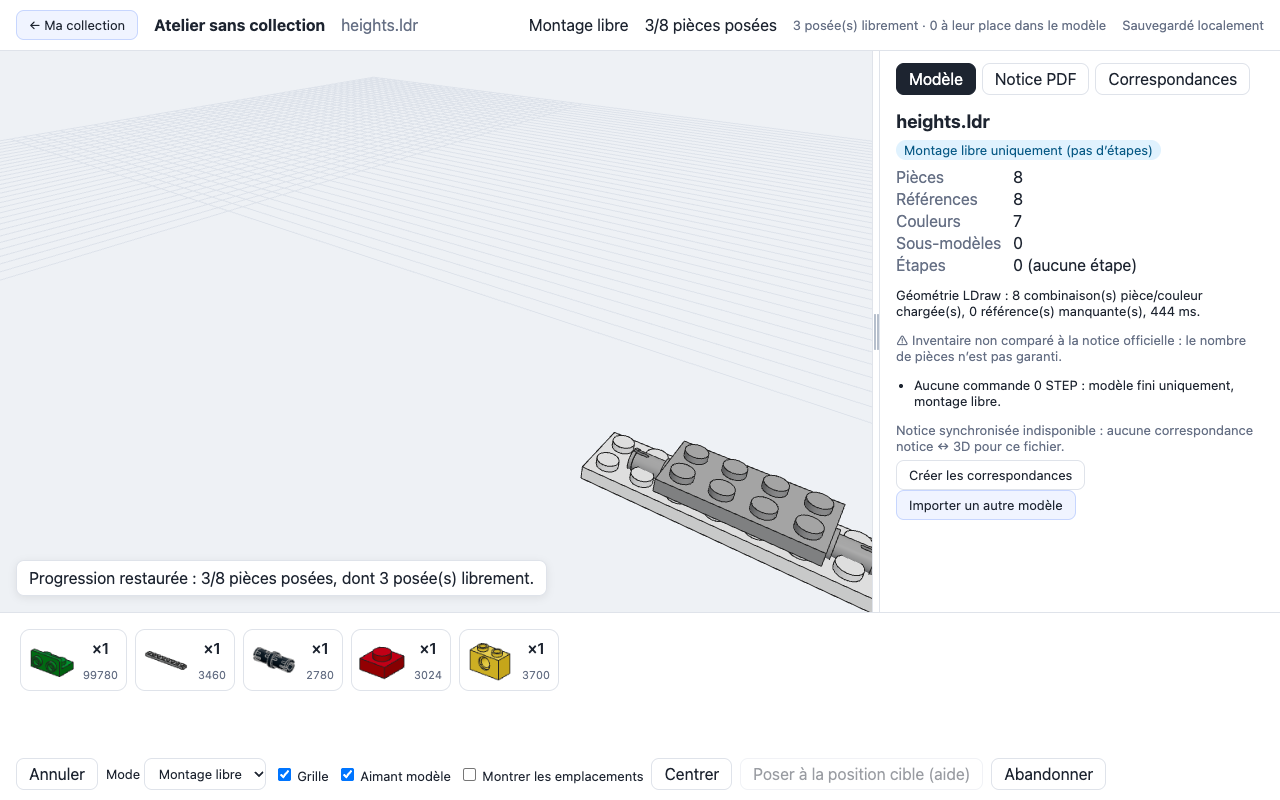
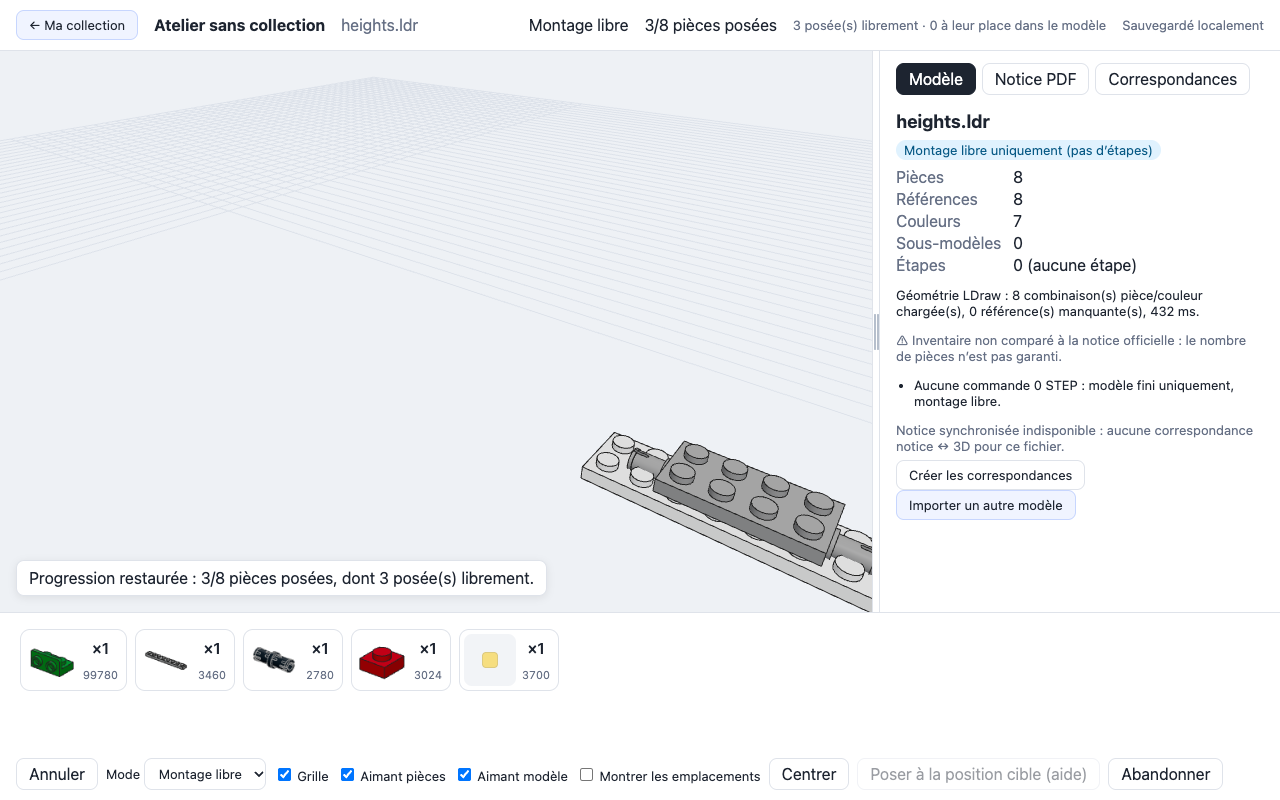
docs(montage-libre): connexions, rapport 3D, captures avant/après, recette humaine

diff --git a/docs/implementation/MONTAGE_LIBRE_3D_RAPPORT.md b/docs/implementation/MONTAGE_LIBRE_3D_RAPPORT.md
@@ -1,0 +1,98 @@
+# Montage libre — rotations 3 axes, manipulation directe, assemblages, aimantation : rapport
+
+**Date :** 07/11/2026. Branche `feat/true-free-building` (PR #7), worktree `brick-build-worktrees/true-free-building`, base `origin/main` = `5272811`. Décision du propriétaire : NO-GO de la PR #7 en l'état, GO pour compléter le moteur du montage libre (quatre problèmes relevés sur 31039).
+Architecture : [MONTAGE_LIBRE_CONNEXIONS.md](MONTAGE_LIBRE_CONNEXIONS.md) · recette humaine : [RECETTE_HUMAINE_MONTAGE_LIBRE_3D.md](RECETTE_HUMAINE_MONTAGE_LIBRE_3D.md).
+
+> Critère du propriétaire : prendre une pièce, la tourner dans tous les sens, la placer facilement sur une autre grâce à l'aimant, puis saisir et déplacer tout un assemblage connecté comme un seul objet. Les deux captures annoncées n'ont pas été reçues : les deux cas ont été reconstitués à partir de sa construction réelle 31039 (lue sans modification).
+
+## 1. Les deux cas du propriétaire
+
+| Capture annoncée | Ce que montrent ses données | Cause |
+|---|---|---|
+| « Une pièce rouge que je ne peux pas mettre à la verticale » | Axe Technic **32062** (rouge), couché : sa longueur (axe X du fichier) va vers Z. | Les orientations proposées (O) étaient celles du modèle : 31039 n'utilise le 32062 que couché ; R ne tournait qu'autour de la verticale. |
+| « Un assemblage gris, orange et vert mal aligné » | Plaques grises **30157** à y = 15,41 au lieu de 17,41 sur les plaques orange 3023 et les équerres vertes 99780 ; dans le plan, bien centrées. | **2 LDU trop haut** : ses réceptacles ne prennent pas les tenons. Rien ne pouvait les y amener précisément (pas d'aimant entre pièces). |
+
+Captures avant / après (modèle synthétique original avec les mêmes pièces et les mêmes poses que son 31039) : [avant — assemblage](preuves/libre/avant-assemblage-gris-orange-vert.png) · [avant — axe rouge](preuves/libre/avant-axe-rouge-pas-de-verticale.png) · [après — axe vertical](preuves/libre/apres-axe-rouge-vertical.png) · [après — aimant, aperçu](preuves/libre/apres-aimant-plaque-grise-apercu.png) · [après — assemblage aligné](preuves/libre/apres-assemblage-aligne.png) · [après — assemblage sélectionné](preuves/libre/apres-assemblage-selectionne.png) · [après — assemblage déplacé et tourné](preuves/libre/apres-assemblage-deplace.png).
+
+## 2. Les quatre améliorations
+
+| | Ce qui change |
+|---|---|
+| **A — Rotations X / Y / Z** | Boutons X, Y, Z (−90° / +90°) au-dessus de la vue 3D, touches X / Y / Z (Maj : −90°, R = Y) ; axes de rotation dessinés autour de la pièce (X rouge, Y vert, Z bleu) ; indicateur « Dessus : haut · Avant : −Z ». Rotations composées par produit de matrices, coefficients ramenés exactement à −1/0/1 : aucune dérive (vérifié sur 1 000 rotations). Sans pièce en main, la sélection tourne **sur place** (même point le plus bas), en une action. Groupes : rotation 3D du repère, reposés par leur nouveau point le plus bas. Plus de limite aux orientations du modèle (O reste disponible). |
+| **B — Manipulation directe** | Appuyer sur une pièce posée et glisser : elle est prise (avec toute la sélection si elle en fait partie), relâcher la pose à l'aperçu. Seuil de 4 px (le même que le clic existant) : un clic, même avec un léger glissement du trackpad, ne déplace rien. Caméra suspendue seulement pendant ce glisser ; un glisser dans le vide la fait toujours tourner. Échap annule. M reste un raccourci. Éditeur de correspondances P6 inchangé. |
+| **C — Assemblage connecté** | « Sélectionner l'assemblage » (et double-clic) : toutes les pièces reliées à la pièce choisie par des connexions **reconnues** (tenon dans réceptacle, goupille dans trou), directement ou par d'autres ; le groupe se glisse, tourne, monte, descend comme un objet rigide ; une seule action, une seule annulation. Deux pièces qui se touchent ou se croisent sans connexion compatible ne sont pas reliées. Maj + clic reste disponible pour le reste. |
+| **D — Aimant entre pièces** | Pendant une manipulation : connecteurs compatibles à moins de 24 LDU, translations candidates, score déterministe (paires emboîtées, puis plus petit déplacement), propositions impossibles écartées (tenon déjà pris, deux pièces au même endroit), aperçu à la position proposée, points verts sur les connecteurs emboîtés, texte « aimant : N tenon(s) emboîté(s) sur M pièce(s) ». Case « Aimant pièces » ; ⌥ maintenu pendant le déplacement pour l'ignorer ; en hauteur manuelle, seulement à cette hauteur. La pose est exactement l'aperçu. |
+
+## 3. Connexions reconnues (résumé — détail dans la note d'architecture)
+
+Tenons (primitives `stud*`), réceptacles déduits sous les briques, plaques, tuiles (tubes `stud3*` / `stud4*`, 1 × 1, titre « Tile W x L »), demi-goupilles Technic (`connect*`, `confric*`), trous de goupille (paires de `peghole`). **Non reconnus** (signalés, jamais inventés) : axes et trous d'axe (mêmes primitives pour le mâle et le femelle), clips, barres, charnières, roues, pentes sans tube, pare-brise… Couverture : 31039 — 117 pièces sur 133 avec au moins un connecteur, 107 avec tenons/réceptacles ; 31009 — 52/65 ; 31040 — 21/31.
+
+## 4. Compatibilité et intégrité
+
+- **Format de sauvegarde inchangé** (v3, 12 nombres par pièce libre) : une rotation 3D ou un groupe déplacé sont des poses rigides déjà représentables. v1 / v2 inchangés.
+- Ouvrir une partie ne réaligne rien : l'aimant n'agit que sur une manipulation explicite (sa construction 31039 réelle est restée telle quelle).
+- Modes guidé et synchronisé : règles inchangées (pas de barre, pas de sélection, mêmes niveaux, même refus) ; 31040 synchronisé rejoué jusqu'au bout par la suite.
+- Stock : un déplacement, une rotation ou un groupe ne crée ni ne retire de pièce ; un groupe est déplacé tout ou rien (`moveGroup`).
+
+## 5. Défauts trouvés pendant le lot et corrigés
+
+| Défaut | Effet | Correction |
+|---|---|---|
+| Boîtes englobantes pour écarter les collisions | La 30157 (supports de roues) était jugée « en collision » avec la plaque blanche : l'aimant ne proposait rien sur son cas | Collision approximative abandonnée ; règles sûres sur les connecteurs |
+| Gestionnaires R3F appelés une fois par objet touché | Après un glisser, le clic de relâche re-sélectionnait la pièce | Propagation arrêtée, drapeau conservé jusqu'à l'appui suivant |
+| Pièce re-créée (sélectionnée / non) placée à l'origine jusqu'au rendu suivant | Un double-clic rapide (ou deux clics) passait à travers la pièce et **vidait la sélection** — aussi pour un humain | Matrice et matrice monde calculées dès l'attachement |
+| Double-clic mesuré au traitement des événements | Une image lente séparait les deux clics | Horodatage des événements eux-mêmes |
+| Aperçu absent tant que la souris ne bouge plus après la prise | Le premier glisser n'affichait rien si le pointeur s'arrêtait | Le pointeur est suivi avant la prise |
+| Axes de rotation dessinés avec des lignes épaisses (drei `Line`) | Vue 3D ralentie (test : 52 s au lieu de 21 s) | Segments simples créés une fois |
+| Textes de la barre et boutons sur la même ligne | Les boutons bougeaient quand un texte changeait | Ligne d'état séparée |
+| R replié dans l'orientation en montage libre | Le joueur scripté P5 (qui compte les quarts de tour de R) bouclait : validation 31040 en libre bloquée 40 min | R garde son quart de tour dans tous les modes ; seuls les boutons et touches X / Y / Z composent l'orientation |
+| L'aimant entre pièces passait avant la place officielle | Sur 31040, une pièce calée sur sa place du modèle était déplacée de 10 LDU vers un emboîtement voisin | Quand « Aimant modèle » trouve la place officielle, elle est gardée ; ailleurs l'aimant entre pièces s'applique ; un décalage nul ne change rien |
+| Test : deux briques 2 × 4 posées en se chevauchant | L'aimant (à raison) empilait la seconde sur la première | Test corrigé : briques écartées |
+
+## 6. Tests
+
+- **Unitaires** : 286/286 (+15 : rotations A 4, connexions et aimant 11 — lecture des connecteurs sur des pièces miniatures originales, graphe, assemblages, goupille/trou, propositions, déterminisme, hauteur conservée, axes non alignés, tenon déjà pris, deux pièces au même endroit).
+- **E2E** `free-3d.spec.ts` (5, modèle synthétique avec les pièces et poses du propriétaire) : A — axe rouge vertical, posé, identique après rechargement, rotation sur place annulée en une fois ; B — glisser, clic avec glissement de 2 px, vide = caméra, Échap, sélection glissée ensemble, M ; C — assemblage de 7 pièces (bouton, double-clic), glissé et tourné comme un objet, une annulation, pièce voisine non prise ; D — les deux plaques grises emboîtées exactement (4 tenons chacune), ⌥, axe non reconnu sans proposition ; **WebKit**. Tests existants adaptés : `free-building` (sélection puis M), `free-height-group` (temps limite), joueur scripté inchangé depuis la correction précédente.
+- **Recette réelle** (dossier isolé, fichiers copiés en lecture seule, serveur redémarré entre les parties 1 et 2) :
+
+| | 31009 | 31039 |
+|---|---|---|
+| Aimant sur pièces réelles | 3010 (brique 1 × 4) sur 3023 : 2 tenons, connectées | 30157 sur 32018 : 2 tenons, connectées |
+| Assemblage sélectionné, glissé, tourné sur X | 2 pièces, géométrie relative exacte | idem |
+| Après redémarrage | 13/270, mêmes poses (empreinte identique) | 13/609, idem |
+| Guidé après « Retirer et changer de mode » | pose loin refusée (« Trop loin… 267 LDU ») | (pas d'étapes) |
+| Vue 3D en tournant la caméra | 60 i/s | 60 i/s |
+
+**Performance 31039 avec toutes ses pièces** (596 posées librement à leur pose ; 13 pièces **miroir** du fichier OMR exclues, une pièce libre devant être rigide) : ouverture 4,7 à 5,1 s ; graphe des connexions **12 à 16 ms** (531 pièces reliées, 831 liaisons) ; sélection de l'assemblage principal (432 pièces, affichage compris) **113 à 454 ms** selon l'exécution ; 60 i/s au repos, **pendant un glisser avec l'aimant**, en tournant la caméra.
+
+Captures réelles (hors dépôt) : `~/Documents/brick-lab-data/proofs/libre/libre-*-aimant-reel.png`, `libre-31039-1-609-pieces.png`, mesures `recette-libre.json`.
+
+## 7. Sortie de la validation (code final, 07/11/2026)
+
+```
+check:spec   15 OK, 2 DÉCLARÉ (écarts antérieurs inchangés), 0 écart nouveau
+typecheck    tsc --noEmit : 0 erreur
+vitest       Test Files 15 passed (15) — Tests 286 passed (286)
+playwright   passage 1 : 73 passed (23.2m), 0 ignoré, 0 échec        [68 + 5 free-3d, dont WebKit]
+             passage 2 : 72 passed, 1 échec intermittent (WebKit de free-height-group : pièce
+                         en main lue juste avant d'exister, WebKit sur WebGL logiciel) → le test
+                         attend désormais la pièce (3 exécutions isolées réussies)
+             passage 3 : 73 passed (24.9m), 0 ignoré, 0 échec (après cette correction de test)
+recette réelle libre-reel.spec.ts (31009 + 31039) : partie 1, redémarrage, parties 2 et 3 : 3/3
+npm run build   OK (production, 0 avertissement)
+```
+
+Avant ces passages, deux exécutions complètes avaient révélé deux défauts (R replié dans l'orientation, priorité des aimants, § 5) : 65/67, corrigés.
+
+## 8. Limites
+
+- Connexions reconnues limitées (§ 3) : axes, clips, charnières, roues… ne s'aimantent pas et ne rejoignent un assemblage que par Maj + clic.
+- L'aimant ne tourne pas la pièce : il faut l'orienter (X/Y/Z) pour que les axes correspondent.
+- Pas de collision : deux pièces peuvent s'interpénétrer hors des cas sûrs écartés.
+- Rayon de 24 LDU : au-delà, viser plus près ; avec plusieurs propositions également bonnes, la plus proche gagne (déterministe).
+- Pièces miroir d'un fichier (pose non rigide) : pas de pose libre possible.
+- Trackpad et application Safari : vérifiés par la recette humaine (WebKit de Playwright ici).
+
+## 9. Verdict
+
+**GO sous condition de la recette humaine** ([RECETTE_HUMAINE_MONTAGE_LIBRE_3D.md](RECETTE_HUMAINE_MONTAGE_LIBRE_3D.md)), centrée sur les quatre problèmes. La fusion reste soumise à ton GO explicite.

diff --git a/docs/implementation/MONTAGE_LIBRE_CONNEXIONS.md b/docs/implementation/MONTAGE_LIBRE_CONNEXIONS.md
@@ -1,0 +1,56 @@
+# Montage libre — connexions, transformations, aimantation (note d'architecture)
+
+**Date :** 07/11/2026. Branche `feat/true-free-building` (PR #7). Demande du propriétaire après sa recette sur 31039 : rotations sur 3 axes, manipulation directe, sélection d'un assemblage connecté, aimantation entre pièces. Les deux captures annoncées n'ont pas été reçues ; analyse faite sur sa construction réelle 31039 (lue sans modification).
+
+## 1. Ce que la bibliothèque LDraw permet de savoir — et ce qu'elle ne dit pas
+
+La bibliothèque LDraw décrit la **géométrie** des pièces (faces, arêtes, sous-fichiers). Elle **ne décrit pas les connexions** : aucune métadonnée officielle ne dit « ici un tenon, là un réceptacle, là un trou d'axe ». Ce que l'on peut en déduire de façon démontrable vient des **primitives** standard que les fichiers de pièces référencent, avec leur transformation :
+
+| Primitive (titre officiel) | Interprétation | Fiabilité |
+|---|---|---|
+| `stud.dat` « Stud », `stud2.dat` « Stud Open », variantes à logo, tenons tronqués (`stud10/13/15/17/26`, `stud6`) | **tenon** : centre de la base + axe (direction du tenon), en coordonnées de la pièce | sûre |
+| `stud4*.dat` « Stud Tube Open » (pièces de 2 de large) | tube **entre quatre réceptacles** ; donne le plan du dessous | sûre pour briques, plaques, tuiles |
+| `stud3*.dat` « Stud Tube Solid » (pièces de 1 de large) | tube **entre deux réceptacles**, dans la longueur | sûre pour pièces 1 × N |
+| aucun tube, tenons dessus (1 × 1) | réceptacle sous le tenon, sur la face la plus basse | sûre pour 1 × 1 |
+| aucun tube ni tenon, titre standard « Tile W x L » | grille de réceptacles sous la tuile | sûre pour les tuiles rectangulaires |
+| `connect*.dat`, `confric*.dat` « Technic Pin … » | **demi-goupille** Technic : segment de 20 LDU | sûre |
+| `peghole.dat` « Peg Hole End » (×2, colinéaires, 10 à 40 LDU) | **trou de goupille** Technic entre les deux extrémités | sûre quand les deux extrémités existent |
+| `axle.dat`, `axleend*`, `axlehol*` | axe **ou** trou d'axe — les mêmes primitives dessinent l'axe mâle (32062 : `axlehol8` « Axle Perimeter ») et le trou d'axe | **non reconnue** (signalée) |
+| clips, barres, charnières, rotules, roues, Duplo, Scala, faces inclinées sans tube, pare-brise… | pas de primitive de connexion exploitable | **non reconnue** |
+
+Les **réceptacles** (où un tenon entre) n'ont **aucune primitive** : ils sont **déduits** — points de la grille de 20 LDU (alignée sur les tenons ou sur les tubes) dans le contour de la face du dessous (plan de base des tubes, tolérance 1,6 LDU pour les rebords en retrait). C'est une hypothèse documentée, vérifiée pièce par pièce (§ 5), pas une lecture.
+
+**Couverture mesurée** (scan de toutes les références des fichiers, 213 ms pour 31039) : 31039 — 133 pièces réelles distinctes, 117 avec au moins un connecteur, 107 avec tenons/réceptacles, 15 avec axes non reconnus, 16 sans aucun connecteur (axes, axes-goupilles, bagues, charnières, clips, roues, pneus, « cheese slopes », pente courbe, pare-brise) ; 31009 — 65 pièces, 52 avec tenons/réceptacles ; 31040 — 31 pièces, 21.
+
+Conséquences assumées : pas de connexion **inventée**. Deux pièces qui se touchent ou se croisent sans paire de connecteurs compatible **ne sont pas connectées** ; une pièce non reconnue ne s'aimante pas (pose libre, grille et hauteur manuelle restent disponibles) et n'entre dans un assemblage que par sélection manuelle (Maj + clic).
+
+## 2. Représentation
+
+- `src/domain/ldraw/connectors.ts` (pur) : lecture récursive des fichiers d'une pièce (lecteur de fichiers injecté, chaque fichier lu une fois), connecteurs en coordonnées **de la pièce** : `stud`, `antistud` (position, axe), `pin`, `pinhole` (milieu, axe, demi-longueur). Cache **par référence LDraw** (`src/infra/ldraw/connector-catalog.ts`, mêmes fichiers que le rendu, servis par `/api/ldraw/`, déjà en cache HTTP).
+- **Coordonnées du monde** : connecteur d'une pièce posée = `pose × connecteur` (même matrice que le rendu et la sauvegarde) ; les axes suivent les rotations X/Y/Z. Index spatial par cellules de 20 LDU, reconstruit quand la construction change.
+- **Compatibilité** : tenon ↔ réceptacle (même point à 0,6 LDU, même axe) ; demi-goupille ↔ trou (axes parallèles, colinéaires à 0,6 LDU, recouvrement ≥ 8 LDU).
+
+## 3. Transformations et rotations
+
+- Une pose reste une matrice rigide LDraw (rotation 3 × 3 + translation), comme dans le format v3 (12 nombres d'une ligne de type 1). **Aucun changement de schéma.**
+- Rotations de ±90° autour des axes **X, Y, Z** (LDraw : Y vertical) composées par produit de matrices ; les coefficients sont ramenés exactement à −1 / 0 / 1 quand ils en sont à 10⁻⁹ près : aucune dérive, même après des centaines de rotations. Les orientations ne sont plus limitées à celles du modèle (O reste disponible).
+- Groupes : une rotation du repère du groupe, appliquée à chaque pièce (`repère × pose relative`) ; distances et orientations relatives exactes ; le groupe repose ensuite sur la surface par son point le plus bas recalculé.
+- Réorienter des pièces posées : la sélection tourne sur place (même point le plus bas), en une action.
+
+## 4. Aimantation et assemblages
+
+- **Aimant entre pièces** (pendant une manipulation explicite seulement) : pour chaque connecteur de la pièce (ou du groupe) en main et chaque connecteur compatible d'une pièce posée à moins de 24 LDU, translation candidate qui les fait coïncider (la rotation reste celle choisie par le joueur : il faut des axes déjà alignés). Score déterministe : nombre de paires emboîtées (plus = mieux), puis distance à la position visée, puis ordre des translations. **Propositions impossibles écartées à partir des connecteurs** (règles sûres) : un tenon qui tient déjà un réceptacle n'en reçoit pas un second ; deux tenons (ou deux réceptacles) au même point et de même axe = deux pièces au même endroit. Une première version écartait aussi les propositions dont la **boîte englobante** traversait une autre pièce : abandonnée, car la boîte d'une pièce à excroissances est fausse (la 30157 du propriétaire, avec ses supports de roues, « traversait » la plaque blanche sans la toucher) — pas de détection de collision approximative. En hauteur manuelle, seules les propositions à cette hauteur. Aperçu à la position proposée + repères des connecteurs emboîtés + texte « Aimant : N tenons sur … ». Désactivable (case), contournable en maintenant ⌥ (Option) pendant le déplacement.
+- **Assemblage connecté** : graphe des pièces posées dont deux connecteurs compatibles coïncident ; « Sélectionner l'assemblage » (et double-clic) prend la composante connexe de la pièce choisie, déplacée ensuite comme un groupe rigide (existant), en une action.
+- L'aimant vers le **modèle officiel** reste disponible (case séparée « Aimant modèle ») : quand il trouve la place officielle de la pièce (à ≤ 9,5 LDU), elle est gardée ; partout ailleurs, l'aimant entre pièces s'applique. Décocher « Aimant modèle » donne toute la main à l'aimant entre pièces. (Trouvé par la validation P5 sur 31040 : l'aimant entre pièces déplaçait une pièce de sa place officielle vers un emboîtement voisin.)
+
+## 5. Impacts
+
+| Fichier | Changement |
+|---|---|
+| `connectors.ts` (nouveau), `connector-catalog.ts` (nouveau) | connecteurs, cache par référence |
+| `free.ts` | rotations X/Y/Z exactes, rotation de groupe 3D, graphe et composantes connexes, propositions d'aimantation |
+| `surface.ts`, `engine.ts` | inchangés (règles guidé / synchronisé) |
+| `BrickLabApp.tsx` | commandes X/Y/Z ±90°, indicateur d'orientation, manipulation directe (glisser), assemblage, aimant entre pièces |
+| `BuildCanvas.tsx` | glisser une pièce posée (seuil de 4 px, caméra suspendue pendant le glisser, reprise sinon), double-clic, repères de l'aimant, axes de rotation |
+| Sauvegardes v1/v2/v3 | inchangées ; ouvrir une partie ne réaligne rien ; l'aimant n'agit que sur une manipulation explicite |
+| Stock, annulation | inchangés : un déplacement ou une rotation de pièces posées est une seule action (`moveGroup`, tout ou rien) |

diff --git a/docs/implementation/RECETTE_HUMAINE_MONTAGE_LIBRE_3D.md b/docs/implementation/RECETTE_HUMAINE_MONTAGE_LIBRE_3D.md
@@ -1,0 +1,63 @@
+# Recette humaine — rotations, manipulation directe, assemblages, aimant (Chrome puis Safari)
+
+> Tes quatre problèmes sur 31039 (07/11/2026). Critère : prendre une pièce, la tourner dans tous les sens, la placer facilement sur une autre grâce à l'aimant, puis saisir et déplacer tout un assemblage connecté comme un seul objet. Rapport : [MONTAGE_LIBRE_3D_RAPPORT.md](MONTAGE_LIBRE_3D_RAPPORT.md).
+
+Durée estimée : 25 min. Sur l'écran du MacBook, au trackpad de préférence.
+
+## 0. Avant de commencer (préparé par Claude)
+
+- Serveur de production depuis le worktree `true-free-building` (tête de la PR #7), http://127.0.0.1:3000 (127.0.0.1 seulement).
+- Sauvegarde vérifiée de `library` + `mappings` juste avant ; inventaire SHA-256.
+- Ta construction 31039 (14 pièces libres) est **telle que tu l'as laissée** : rien n'est réaligné à l'ouverture.
+- Format des sauvegardes inchangé depuis ta dernière recette (v3) ; la version actuelle de `main` ne sait pas reprendre une partie v3 — si tu ne fusionnes pas, je restaure la sauvegarde sur ta demande.
+
+## 1. La pièce rouge à la verticale (axe 32062)
+
+1. 31039 → **Reprendre**. Clic sur l'axe rouge : il est sélectionné ; la barre au-dessus de la vue 3D montre « Dessus : … · Avant : … » et les boutons **X / Y / Z**.
+2. **X +90°** (ou touche X) : l'axe se redresse **sur place**. Annuler : il se recouche ; X +90° de nouveau.
+3. Glisse-le (appuyer, déplacer, relâcher) ailleurs : il reste vertical. Pendant le glisser, les trois axes colorés suivent la pièce ; **Z −90°** / **Y +90°** la tournent encore.
+4. **⌘R** : l'axe est vertical, au même endroit.
+
+## 2. Manipulation directe
+
+1. Appuie sur une pièce posée et glisse : elle suit le pointeur ; relâche : elle est posée. Aucun M nécessaire.
+2. Un simple clic (même avec un léger glissement au trackpad) ne la déplace pas : il la sélectionne.
+3. Glisse dans le vide : la caméra tourne, comme avant.
+4. Pendant un glisser, **Échap** : la pièce revient où elle était.
+5. Maj + clic sur deux ou trois pièces, puis glisse l'une d'elles : elles bougent ensemble.
+
+## 3. L'aimant — ton assemblage gris, orange et vert
+
+1. Glisse une **plaque grise** (30157) au-dessus des plaques orange et vertes : elle se cale ; des **points verts** marquent les tenons emboîtés ; la barre indique « aimant : 4 tenon(s) emboîté(s) sur 2 pièce(s) ». Relâche : elle est posée exactement là (elle descend des 2 LDU qui manquaient).
+2. Pareil pour la deuxième plaque grise.
+3. Prends une pièce dans la barre (une plaque, une brique) et approche-la d'une autre : elle se cale sur ses tenons. Essaie à côté, dessous (si elle a des tenons), sur la face latérale des équerres vertes (tenons de côté : tourne d'abord la pièce avec X ou Z pour que ses réceptacles leur fassent face).
+4. Maintiens **⌥ (Option)** pendant le déplacement : plus d'aimant, pose libre. Décoche « Aimant pièces » : idem.
+5. Une pièce sans connexion reconnue (axe rouge, goupille près d'un axe…) : pas de proposition, pose libre.
+
+## 4. Sélectionner et déplacer l'assemblage
+
+1. Clic sur une pièce de ton assemblage, puis **« Sélectionner l'assemblage »** (ou double-clic sur une pièce) : toutes les pièces emboîtées sont sélectionnées (7 avec les deux plaques grises calées), pas celles qui se contentent de toucher.
+2. Glisse-le par une de ses pièces : il bouge comme un objet ; X / Y / Z le tournent sans le déformer ; Monter / Descendre.
+3. Relâche : posé. **Annuler** une fois : tout revient. Recommence et garde-le.
+4. **⌘R**, puis redémarrage du serveur (Ctrl-C dans son onglet, `npm run start`, ou demande-le-moi) : l'assemblage est au même endroit.
+
+## 5. Rien n'a changé ailleurs
+
+1. 31040 (notice synchronisée, 25/65) → Reprendre : pas de barre, pas de sélection ni de glisser des pièces posées, une pose loin de sa place est refusée. Ne pose rien (ou Annuler).
+
+## 6. Safari
+
+Dans **Safari** : refais **1.2, 2.1, 2.3, 3.1 et 4.1–4.2**.
+
+## 7. Résultats (à remplir par le propriétaire)
+
+| Point | Chrome | Safari | Remarques |
+|---|---|---|---|
+| 1. Axe rouge vertical (X/Y/Z, sur place, après rechargement) | | | |
+| 2. Glisser direct, clic sans déplacement, caméra, Échap, sélection | | | |
+| 3. Aimant : plaques grises calées, autres pièces, ⌥, sans connexion | | | |
+| 4. Assemblage : sélection, glisser, rotation, annulation, redémarrage | | | |
+| 5. 31040 inchangé | | — | |
+| Critère : tourner, aimanter, déplacer un assemblage comme un objet | | | |
+
+Dis-moi ce que tu laisses posé : je comparerai tes données avec l'inventaire d'avant cette recette et te dirai exactement ce qui a changé.

diff --git a/docs/implementation/JOURNAL_DECISIONS.md b/docs/implementation/JOURNAL_DECISIONS.md
@@ -112,3 +112,7 @@ Ce journal **prolonge** `docs/09_DECISIONS_ET_RISQUES.md`, qui reste figé dans 
 | Le joueur scripté P5 valide toujours la pose | Plus en montage libre (toute pose est acceptée) : il vérifie maintenant que la pose est sur l'emplacement visé (`targetId`), sinon il annule et recommence. | `scripted-player.ts` |
 | Le placement automatique suffit pour la hauteur en montage libre | Non (recette humaine, NO-GO) : la pièce repose par son point le plus bas (30157 : supports de roues sous la plaque) et PageUp/PageDown ne parcouraient que les niveaux du modèle. → Hauteur manuelle libre, 8 / 1 LDU, boutons visibles, conservée en suivant le pointeur, aimant subordonné à la hauteur choisie ; modes guidé et synchronisé inchangés. | `MONTAGE_LIBRE_CORRECTIONS.md` § 1–2 |
 | Un clic sur une pièce posée doit la reprendre | Remplacé : le clic **sélectionne** (Maj + clic : ajouter / retirer), « Déplacer la sélection » prend la pièce ou le **groupe** (pivot : centre sur la grille, point le plus bas), déplacement tout ou rien et annulé en une action. Aucun changement de schéma : ce sont des poses de pièces libres. | `MONTAGE_LIBRE_CORRECTIONS.md` § 3–4 |
+| Les orientations du modèle suffisent en montage libre | Non (recette 31039 : axe 32062 impossible à redresser). → Rotations ±90° autour de X, Y, Z composées par matrices, coefficients exacts (aucune dérive) ; la sélection tourne sur place ; groupes tournés en 3D. | `MONTAGE_LIBRE_3D_RAPPORT.md` § 2 |
+| La bibliothèque LDraw décrit les connexions | Non : seulement la géométrie. Connexions **déduites** des primitives standard (tenons, tubes, goupilles, extrémités de trous) ; réceptacles déduits sous les briques/plaques/tuiles ; axes, clips, charnières non reconnus et signalés. Graphe d'assemblage et aimant fondés sur ce sous-ensemble ; rien d'inventé. | `MONTAGE_LIBRE_CONNEXIONS.md` |
+| Une boîte englobante suffit à écarter les emboîtements impossibles | Non : la 30157 (supports de roues) « traversait » la plaque blanche sans la toucher. → Règles sûres sur les connecteurs (tenon déjà pris, deux pièces au même endroit) ; pas de collision approximative. | `MONTAGE_LIBRE_3D_RAPPORT.md` § 5 |
+| Un clic R3F sur un groupe n'appelle son gestionnaire qu'une fois | Non : une fois par objet touché ; et une pièce re-créée n'est « visible » au pointeur qu'au rendu suivant. → Propagation arrêtée, matrices calculées dès l'attachement (évite qu'un double-clic vide la sélection). | E2E `free-3d` C |

diff --git a/docs/implementation/RECETTE_HUMAINE_MONTAGE_LIBRE_CORRECTIONS.md b/docs/implementation/RECETTE_HUMAINE_MONTAGE_LIBRE_CORRECTIONS.md
@@ -54,3 +54,7 @@ Dans **Safari** : refais **1.2 à 1.4** et **2.2 à 2.6**.
 | Critère : assembler, déplacer ensemble, ajuster la hauteur avec précision | | | |
 
 Dis-moi ce que tu laisses posé : je comparerai tes données avec l'inventaire d'avant cette recette et te dirai exactement ce qui a changé.
+
+## 6. Résultat de la recette du propriétaire (07/11/2026)
+
+**NO-GO** pour fusionner la PR #7 en l'état ; **GO** pour compléter le moteur. Quatre nouveaux problèmes sur 31039 (deux captures annoncées, non reçues par Claude) : une pièce rouge impossible à mettre à la verticale (axe 32062) ; un assemblage gris, orange et vert mal aligné (plaques 30157 à 2 LDU au-dessus des tenons) ; obligation de passer par M pour déplacer ; pas de sélection d'un assemblage complet ni d'aimant entre pièces. Données : seule la construction 31039 a changé (14 pièces libres, révision 40), 31040 et 31009 inchangés. Suite : [MONTAGE_LIBRE_3D_RAPPORT.md](MONTAGE_LIBRE_3D_RAPPORT.md), recette [RECETTE_HUMAINE_MONTAGE_LIBRE_3D.md](RECETTE_HUMAINE_MONTAGE_LIBRE_3D.md).

diff --git a/docs/implementation/README.md b/docs/implementation/README.md
@@ -30,7 +30,10 @@ Le dépôt contient deux familles de documents :
 - [Véritable montage libre : rapport, tests, mesures, verdict](MONTAGE_LIBRE_RAPPORT.md)
 - [Recette humaine du véritable montage libre (faite : NO-GO, deux limitations)](RECETTE_HUMAINE_MONTAGE_LIBRE.md)
 - [Corrections : hauteur libre et groupes (cause, tests, compatibilité)](MONTAGE_LIBRE_CORRECTIONS.md)
-- [Recette humaine ciblée des corrections (à faire par le propriétaire)](RECETTE_HUMAINE_MONTAGE_LIBRE_CORRECTIONS.md)
+- [Recette humaine ciblée des corrections (faite : NO-GO, quatre problèmes)](RECETTE_HUMAINE_MONTAGE_LIBRE_CORRECTIONS.md)
+- [Connexions, transformations et aimantation : note d'architecture](MONTAGE_LIBRE_CONNEXIONS.md)
+- [Rotations 3 axes, manipulation directe, assemblages, aimant : rapport](MONTAGE_LIBRE_3D_RAPPORT.md)
+- [Recette humaine des quatre problèmes (à faire par le propriétaire)](RECETTE_HUMAINE_MONTAGE_LIBRE_3D.md)
 
 ## Démarrage développeur
 
